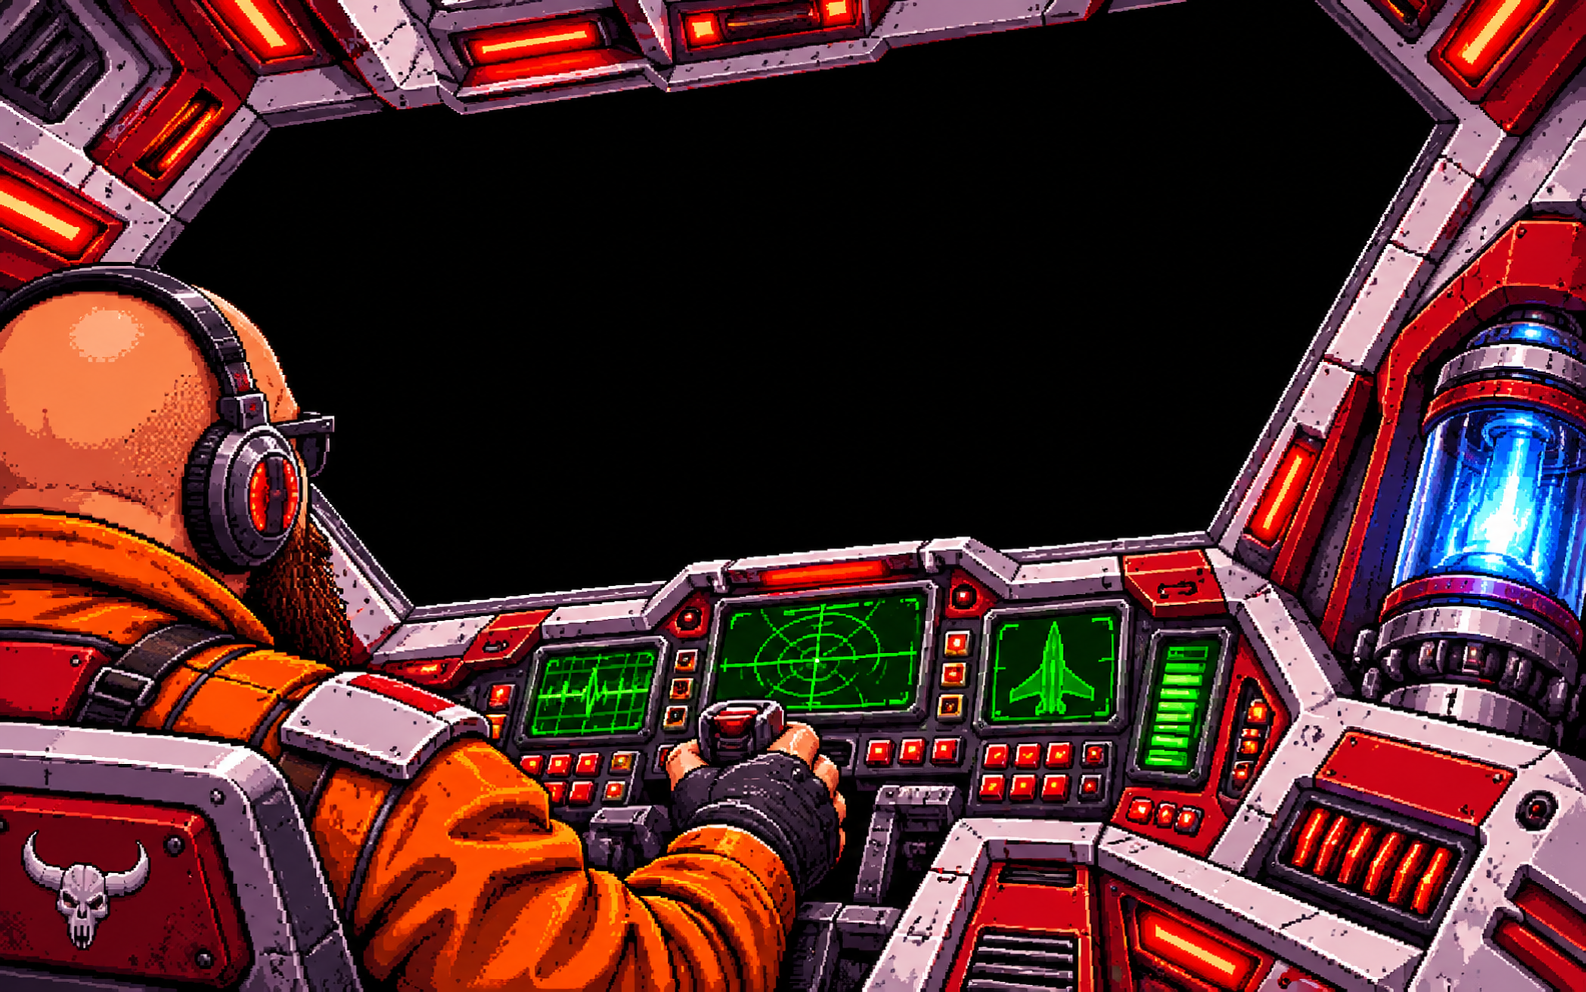
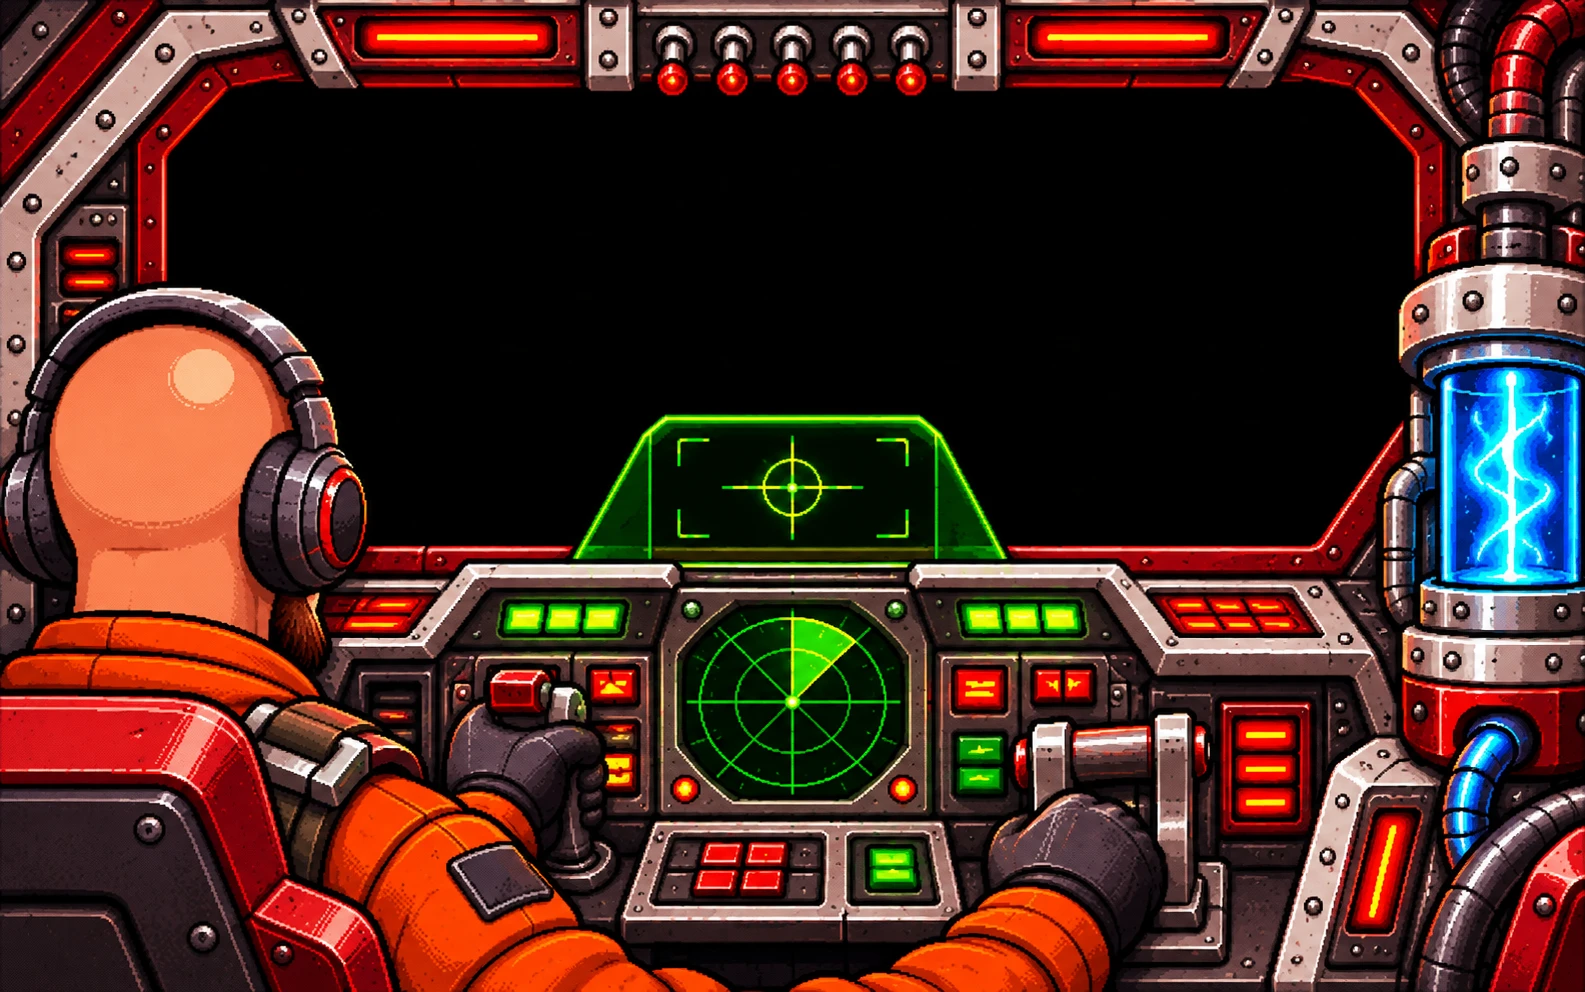
Raptor: cabine nova (piloto sentado no comando), reta, so a turbulencia da dobra balanca
Claude-Session: https://claude.ai/code/session_01YU21iq1A5cr81r2vc4qJPp

diff --git a/src/Jogo/CenaPouso.java b/src/Jogo/CenaPouso.java
@@ -207,7 +207,9 @@ final class CenaPouso {
         return l;
     }
     /** Centro e raio do radar em cada cabine (fracoes da tela), para a varredura. */
-    private static final double[][] RADAR = {{.515, .655, .062}, null, null, null, null};
+    private static final double[][] RADAR = {{.5, .706, .075}, null, null, null, null};
+    /** Inclinacao fixa da camera da cabine, em graus (a arte vem reta; a turbulencia da dobra balanca por cima). */
+    static double INCLINACAO_CABINE = Double.parseDouble(System.getProperty("metalspace.inclinacao", "0"));
     private BufferedImage cabine() { BufferedImage c = CABINES[Math.max(0, Math.min(4, modelo))]; return c != null ? c : CABINE_PADRAO; }
     /** A galera jogando o Wenger pra cima (wenger_galera.png, 4 quadros com as maos embaixo). */
     private static final BufferedImage GALERA = ler("wenger_galera.png");
@@ -232,7 +234,7 @@ final class CenaPouso {
         Graphics2D v = (Graphics2D) g.create(); v.translate(treme, treme * .6);
         boolean artePropria = CABINES[Math.max(0, Math.min(4, modelo))] != null;
         // voo: a cabine balanca devagar (respiro da nave)
-        if (artePropria) { v.rotate(roll + Math.sin(tl * 1.3) * .012, W / 2.0, H * .7); v.translate(lado + Math.sin(tl * .9) * 4, Math.sin(tl * 1.7) * 3 + Math.abs(lado) * .3); v.translate(W / 2.0, H / 2.0); v.scale(1.08, 1.08); v.translate(-W / 2.0, -H / 2.0); }
+        if (artePropria) { v.rotate(Math.toRadians(-INCLINACAO_CABINE) + roll + Math.sin(tl * 1.3) * .012, W / 2.0, H * .7); v.translate(lado + Math.sin(tl * .9) * 4, Math.sin(tl * 1.7) * 3 + Math.abs(lado) * .3); v.translate(W / 2.0, H / 2.0); v.scale(1.08, 1.08); v.translate(-W / 2.0, -H / 2.0); }
         if (!artePropria) { v.rotate(-.11, W / 2.0, H / 2.0); v.translate(W / 2.0, H / 2.0); v.scale(1.16, 1.16); v.translate(-W / 2.0, -H / 2.0); }
         // o espaco la fora: tunel de dobra, clarao e depois as estrelas com o sol do festival ao longe
         v.setColor(Color.BLACK); v.fillRect(-10, -10, W + 20, H + 20);
